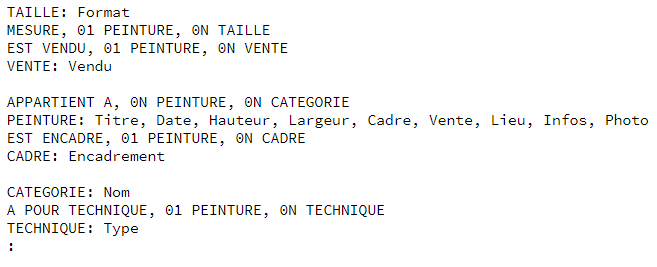
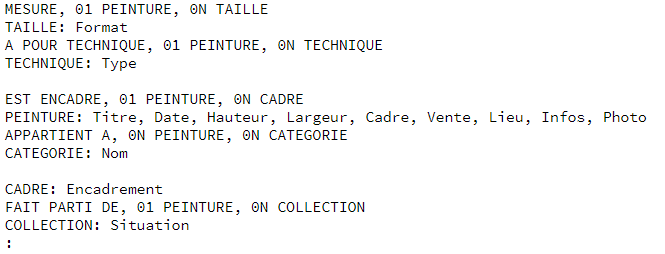
Few modifications for the documentation

Changed region(s): [[0.0, 0.3583, 1.0, 0.6339], [0.0, 0.0, 0.5784, 0.2756], [0.0, 0.689, 0.5784, 0.9646]]

diff --git a/docs/DataDictionnary.md b/docs/DataDictionnary.md
@@ -4,20 +4,19 @@
 | Field        | Type         | Specificity                                     | Description                                      |
 | ------------ | ------------ | ----------------------------------------------- | ------------------------------------------------ |
 | id           | INT          | PRIMARY KEY, NOT NULL, UNSIGNED, AUTO_INCREMENT | Identifiant de l'oeuvre                          |
-| titre        | VARCHAR (100)| NOT NULL                                        | Date de l'oeuvre                                 |
-| date         | DATETIME     | NULL                                            | Titre de l'oeuvre                                |
+| titre        | VARCHAR (100)| NOT NULL                                        | Titre de l'oeuvre                                |
+| date         | DATE         | NULL                                            | Date de l'oeuvre                                 |
 | hauteur      | TINYINT      | NULL                                            | Hauteur de l'oeuvre                              |
 | largeur      | TINYINT      | NULL                                            | Largeur de l'oeuvre                              |
 | lieu         | VARCHAR (100)| NULL                                            | Ville, région où se situe l'oeuvre actuellement  |
 | infos        | TEXT         | NULL                                            | Informations complémentaires sur l'oeuvre        |
 | photo        | TEXT         | NULL                                            | Photo de l'oeuvre                                |
-| created_at   | DATETIME     | NOT NULL, CURRENT_TIMESTAMP                     | Date d'enregistrement de l'oeuvre dans la BDD    |
+| created_at   | DATETIME     | NOT NULL, CURRENT_TIMESTAMP                     | Date d'enregistrement de l'oeuvre                |
 | updated_at   | DATETIME     | NULL                                            | Date de mise à jour de l'oeuvre                  |
-| taille       | entity       | NOT NULL                                        | Format de l'oeuvre                               |
-| technique    | entity       | NOT NULL                                        | Technique utilisée pour l'oeuvre                 |
-| categorie    | entity       | NOT NULL                                        | Catégories de l'oeuvre                           |
-| cadre        | entity       | NOT NULL                                        | Type d'encadrement de l'oeuvre                   |
-| vente        | entity       | NOT NULL                                        | Statut de vente de l'oeuvre et acheteur          |
+| taille_id    | entity       | NULL                                            | Format de l'oeuvre                               |
+| technique_id | entity       | NULL                                            | Technique utilisée pour l'oeuvre                 |
+| cadre_id     | entity       | NULL                                            | Type d'encadrement de l'oeuvre                   |
+| collection_id| entity       | NULL                                            | Situation de l'oeuvre, propriétaire actuel       |
 
 ## Taille
 | Field        | Type         | Specificity                                     | Description                                      |
@@ -39,7 +38,7 @@
 | Field        | Type         | Specificity                                     | Description                                      |
 | ------------ | ------------ | ----------------------------------------------- | ------------------------------------------------ |
 | id           | INT          | PRIMARY KEY, NOT NULL, UNSIGNED, AUTO_INCREMENT | Identifiant de la catégorie                      |
-| nom          | VARCHAR (100)| NOT NULL                                        | Nom du type de catégorie                         |
+| nom          | VARCHAR (100)| NOT NULL                                        | Nom de la catégorie                              |
 | created_at   | DATETIME     | NOT NULL, CURRENT_TIMESTAMP                     | Date d'enregistrement de la catégorie            |
 | updated_at   | DATETIME     | NULL                                            | Date de mise à jour de la catégorie              |
 
@@ -51,10 +50,16 @@
 | created_at   | DATETIME     | NOT NULL, CURRENT_TIMESTAMP                     | Date d'enregistrement de l'encadrement           |
 | updated_at   | DATETIME     | NULL                                            | Date de mise à jour de l'encadrement             |
 
-## Vente
+## Collection
 | Field        | Type         | Specificity                                     | Description                                      |
 | ------------ | ------------ | ----------------------------------------------- | ------------------------------------------------ |
 | id           | INT          | PRIMARY KEY, NOT NULL, UNSIGNED, AUTO_INCREMENT | Identifiant du statut de vente                   |
-| vendu        | VARCHAR (100)| NOT NULL                                        | Etat de la vente, propriétaire actuel            |
+| situation    | VARCHAR (100)| NOT NULL                                        | Situation de l'oeuvre, propriétaire actuel       |
 | created_at   | DATETIME     | NOT NULL, CURRENT_TIMESTAMP                     | Date d'enregistrement de la vente                |
 | updated_at   | DATETIME     | NULL                                            | Date de mise à jour de la vente                  |
+
+## Relation
+| Field        | Type         | Specificity                                     | Description                                      |
+| ------------ | ------------ | ----------------------------------------------- | ------------------------------------------------ |
+| peinture_id  | INT          | NOT NULL, UNSIGNED                              | Identifiant du statut de vente                   |
+| categorie_id | INT          | NOT NULL, UNSIGNED                              | Identifiant du statut de vente                   |
